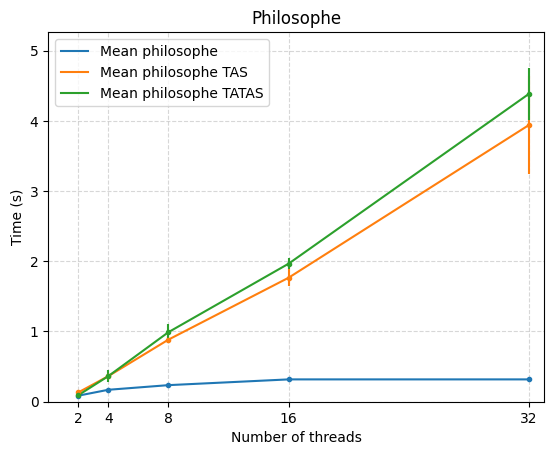
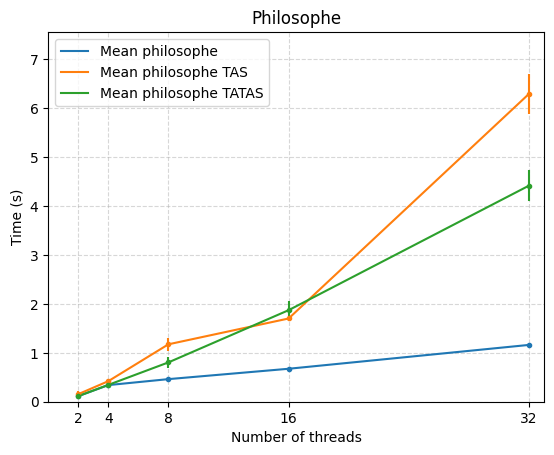
.

diff --git a/plot.py b/plot.py
@@ -4,6 +4,14 @@ import pandas as pd
 
 
 
+local_csv = True
+
+if local_csv:
+    csv_dir = "local_csv/"
+else:
+    csv_dir = "csv/"
+
+
 def plot(plots: list[tuple], num_threads, title, export=False, filename=None, export_type='png', show=True):
     y_max = 0
     for data, label in plots:
@@ -21,6 +29,9 @@ def plot(plots: list[tuple], num_threads, title, export=False, filename=None, ex
     plt.grid(linestyle='--', alpha=0.5)
 
     if export:
+        if local_csv:
+            filename += "_local"
+            
         plt.savefig("graphs/" + filename + "." + export_type, format=export_type, bbox_inches='tight')
 
     if show:
@@ -29,17 +40,17 @@ def plot(plots: list[tuple], num_threads, title, export=False, filename=None, ex
 
 num_threads = np.array([2, 4, 8, 16, 32])
 
-data_philosophe = pd.read_csv('csv/philosophe.csv', header=0)
-data_philosophe_tas = pd.read_csv('csv/philosophe_tas.csv', header=0)
-data_philosophe_tatas = pd.read_csv('csv/philosophe_tatas.csv', header=0)
+data_philosophe = pd.read_csv(csv_dir + 'philosophe.csv', header=0)
+data_philosophe_tas = pd.read_csv(csv_dir + 'philosophe_tas.csv', header=0)
+data_philosophe_tatas = pd.read_csv(csv_dir + 'philosophe_tatas.csv', header=0)
 
-data_prodcons = pd.read_csv('csv/prodcons.csv', header=0)
-data_prodcons_tas = pd.read_csv('csv/prodcons_tas.csv', header=0)
-data_prodcons_tatas = pd.read_csv('csv/prodcons_tatas.csv', header=0)
+data_prodcons = pd.read_csv(csv_dir + 'prodcons.csv', header=0)
+data_prodcons_tas = pd.read_csv(csv_dir + 'prodcons_tas.csv', header=0)
+data_prodcons_tatas = pd.read_csv(csv_dir + 'prodcons_tatas.csv', header=0)
 
-data_readerwriter = pd.read_csv('csv/readerwriter.csv', header=0)
-data_readerwriter_tas = pd.read_csv('csv/readerwriter_tas.csv', header=0)
-data_readerwriter_tatas = pd.read_csv('csv/readerwriter_tatas.csv', header=0)
+data_readerwriter = pd.read_csv(csv_dir + 'readerwriter.csv', header=0)
+data_readerwriter_tas = pd.read_csv(csv_dir + 'readerwriter_tas.csv', header=0)
+data_readerwriter_tatas = pd.read_csv(csv_dir + 'readerwriter_tatas.csv', header=0)
 
 # Philosophe
 plot([(data_philosophe, "philosophe"), (data_philosophe_tas, "philosophe TAS"), (data_philosophe_tatas, "philosophe TATAS")], 
@@ -57,8 +68,8 @@ plot([(data_readerwriter, "reader/writer"), (data_readerwriter_tas, "reader/writ
 ## TAS & TATAS Performance
 num_threads = np.array([1, 2, 4, 8, 16, 32])
 
-data_tas = pd.read_csv('csv/test_and_set_perf.csv', header=0)
-data_tatas = pd.read_csv('csv/test_and_test_and_set_perf.csv', header=0)
+data_tas = pd.read_csv(csv_dir + 'test_and_set_perf.csv', header=0)
+data_tatas = pd.read_csv(csv_dir + 'test_and_test_and_set_perf.csv', header=0)
 
 plot([(data_tas, "test & set"), (data_tatas, "test & test & set")], 
      num_threads, "TAS Vs. TATAS", export=True, filename="tas_and_tatas", show=True)
